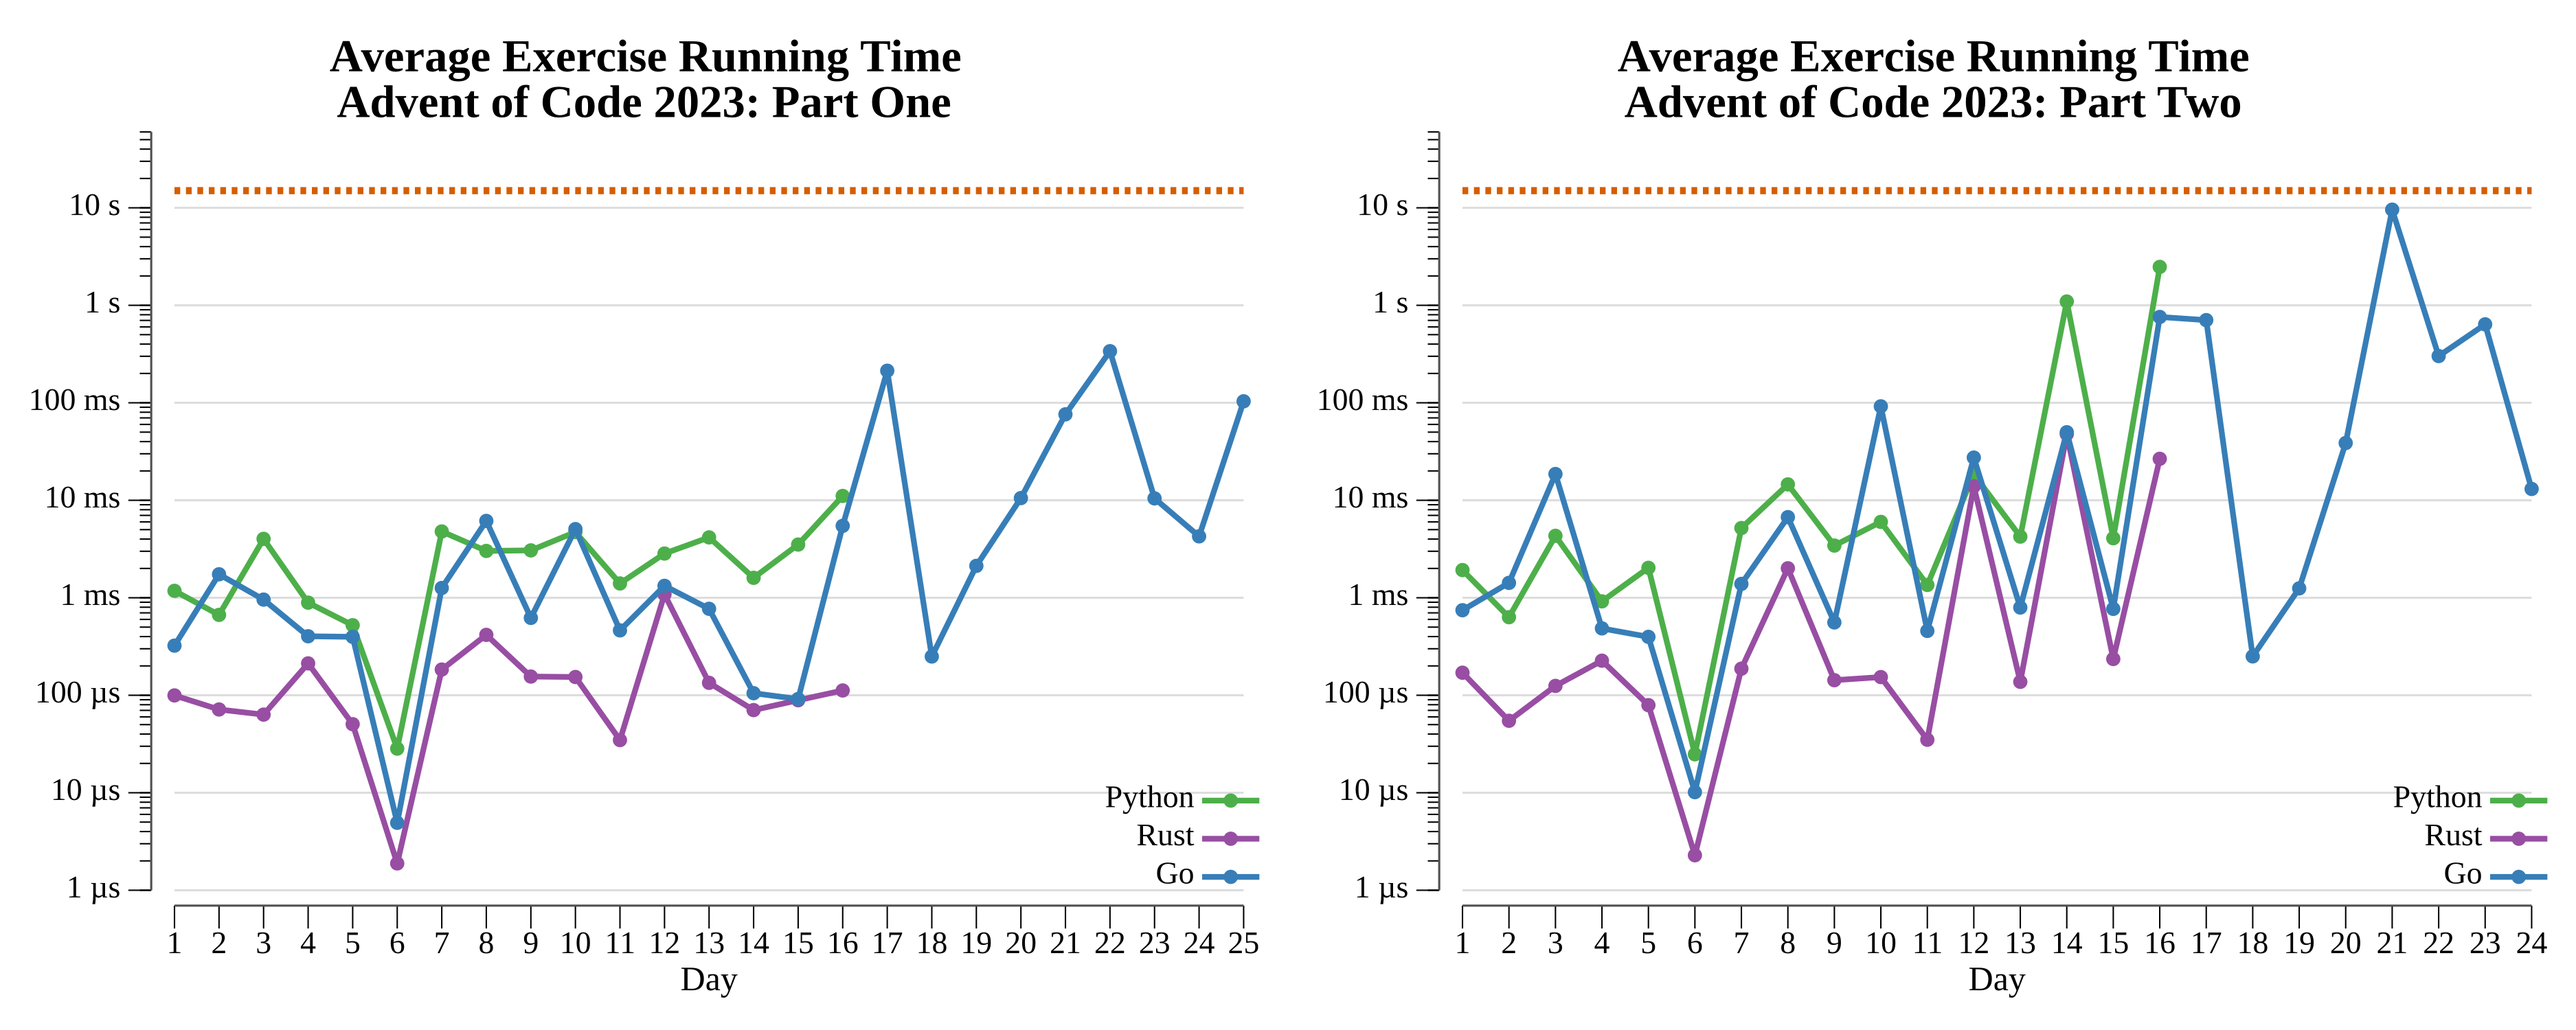
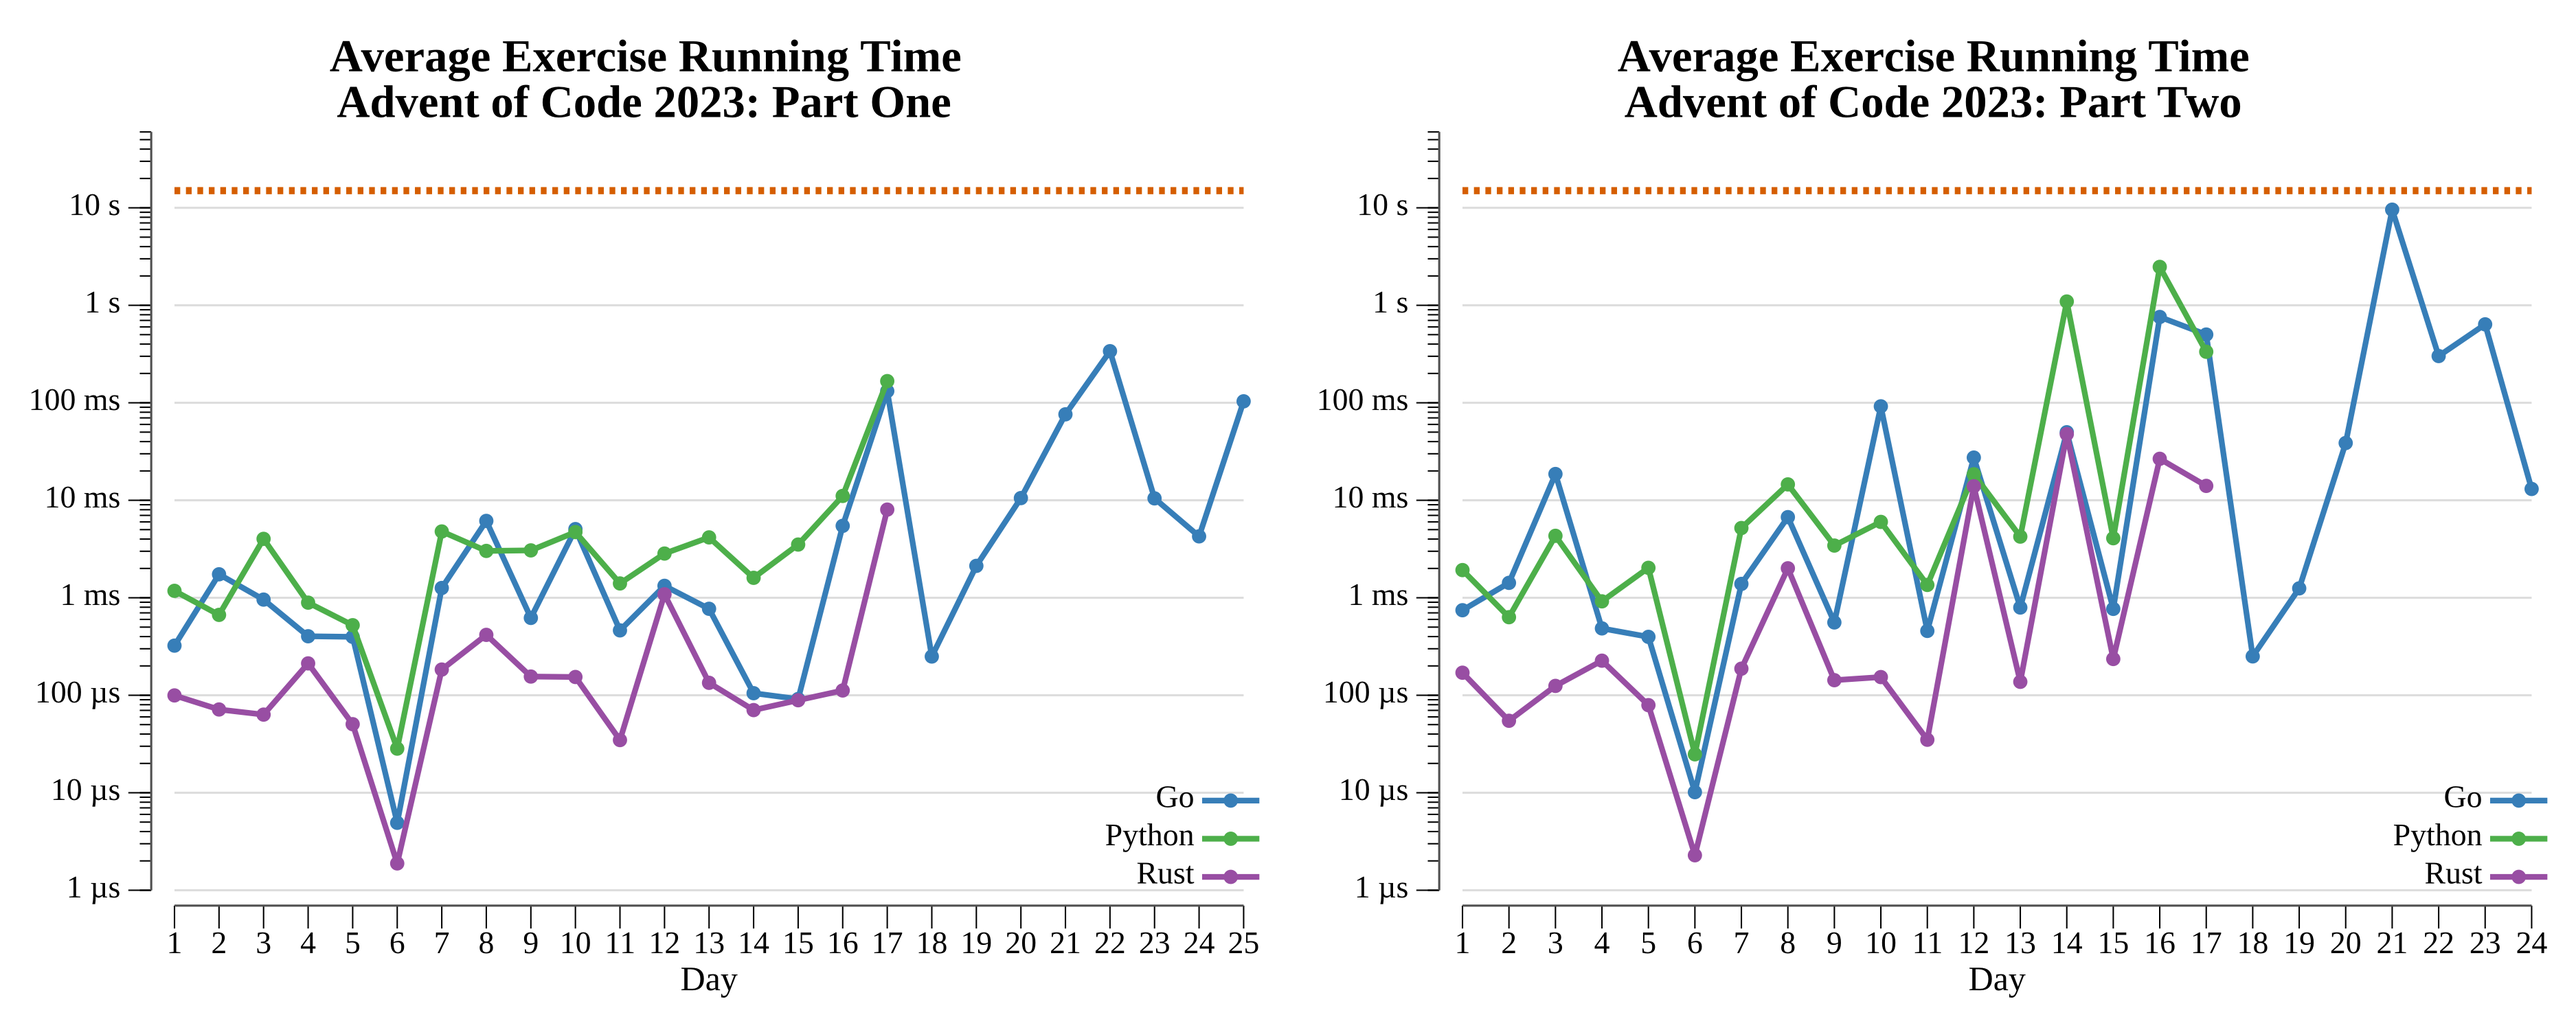
add rust/py to 2023 day 17

diff --git a/exercises/2023/17-clumsyCrucible/rs/src/solution.rs b/exercises/2023/17-clumsyCrucible/rs/src/solution.rs
@@ -1,0 +1,74 @@
+// Solution for Advent of Code 2023 day 17.
+//
+// The crucible seeks the minimum heat-loss path across the city grid, but may
+// only travel between `lo` and `hi` cells in a straight line before turning.
+// This is Dijkstra over states (row, col, axis-just-travelled): because a move
+// must turn onto the perpendicular axis, expanding every lo..hi straight step in
+// one transition captures the constraint without tracking a run length. Part one
+// uses (1, 3); part two the ultra crucible's (4, 10).
+
+use std::cmp::Reverse;
+use std::collections::BinaryHeap;
+
+const HORIZONTAL: usize = 0;
+const VERTICAL: usize = 1;
+
+fn min_heat(grid: &[Vec<u32>], lo: i32, hi: i32) -> u32 {
+    let (h, w) = (grid.len() as i32, grid[0].len() as i32);
+    let goal = (h - 1, w - 1);
+
+    // best[axis][r][c]: cheapest arrival travelling along `axis`.
+    let mut best = vec![vec![vec![u32::MAX; w as usize]; h as usize]; 2];
+    let mut heap: BinaryHeap<Reverse<(u32, i32, i32, usize)>> = BinaryHeap::new();
+    heap.push(Reverse((0, 0, 0, HORIZONTAL)));
+    heap.push(Reverse((0, 0, 0, VERTICAL)));
+
+    while let Some(Reverse((cost, r, c, axis))) = heap.pop() {
+        if (r, c) == goal {
+            return cost;
+        }
+        if cost > best[axis][r as usize][c as usize] {
+            continue;
+        }
+
+        // Turn onto the other axis, stepping lo..hi cells.
+        let (dr, dc) = if axis == VERTICAL { (0, 1) } else { (1, 0) };
+        for sign in [1, -1] {
+            let (dr, dc) = (dr * sign, dc * sign);
+            let (mut nr, mut nc, mut acc) = (r, c, cost);
+            for step in 1..=hi {
+                nr += dr;
+                nc += dc;
+                if nr < 0 || nc < 0 || nr >= h || nc >= w {
+                    break;
+                }
+                acc += grid[nr as usize][nc as usize];
+                if step < lo {
+                    continue;
+                }
+                let naxis = axis ^ 1;
+                if acc < best[naxis][nr as usize][nc as usize] {
+                    best[naxis][nr as usize][nc as usize] = acc;
+                    heap.push(Reverse((acc, nr, nc, naxis)));
+                }
+            }
+        }
+    }
+
+    u32::MAX
+}
+
+fn parse(input: &str) -> Vec<Vec<u32>> {
+    input
+        .lines()
+        .map(|l| l.bytes().map(|b| (b - b'0') as u32).collect())
+        .collect()
+}
+
+pub fn part_one(input: &str) -> String {
+    min_heat(&parse(input), 1, 3).to_string()
+}
+
+pub fn part_two(input: &str) -> String {
+    min_heat(&parse(input), 4, 10).to_string()
+}

diff --git a/exercises/2023/17-clumsyCrucible/py/__init__.py b/exercises/2023/17-clumsyCrucible/py/__init__.py
@@ -1,0 +1,58 @@
+import heapq
+from typing import *
+from aocpy import BaseExercise
+
+# Two axes of travel; from a given axis the crucible must turn onto the other.
+HORIZONTAL, VERTICAL = 0, 1
+
+
+def _min_heat(grid: list[list[int]], lo: int, hi: int) -> int:
+    height, width = len(grid), len(grid[0])
+    goal = (height - 1, width - 1)
+
+    # State = (r, c, axis just travelled). A move goes lo..hi cells along the
+    # perpendicular axis, so the turn constraint is baked into the transitions and
+    # no run-length needs tracking.
+    best: dict[tuple[int, int, int], int] = {}
+    # Seed both axes at the start so the first move can go either way.
+    pq = [(0, 0, 0, HORIZONTAL), (0, 0, 0, VERTICAL)]
+
+    while pq:
+        cost, r, c, axis = heapq.heappop(pq)
+        if (r, c) == goal:
+            return cost
+        if best.get((r, c, axis), 1 << 60) < cost:
+            continue
+
+        # Turn onto the other axis and step lo..hi cells, summing heat as we go.
+        ndir = (0, 1) if axis == VERTICAL else (1, 0)
+        for sign in (1, -1):
+            dr, dc = ndir[0] * sign, ndir[1] * sign
+            nr, nc, added = r, c, cost
+            for step in range(1, hi + 1):
+                nr, nc = nr + dr, nc + dc
+                if not (0 <= nr < height and 0 <= nc < width):
+                    break
+                added += grid[nr][nc]
+                if step < lo:
+                    continue
+                naxis = axis ^ 1
+                key = (nr, nc, naxis)
+                if added < best.get(key, 1 << 60):
+                    best[key] = added
+                    heapq.heappush(pq, (added, nr, nc, naxis))
+
+    return -1
+
+
+# Exercise for Advent of Code 2023 day 17.
+class Exercise(BaseExercise):
+    @staticmethod
+    def one(instr: str) -> int:
+        grid = [[int(ch) for ch in line] for line in instr.splitlines()]
+        return _min_heat(grid, 1, 3)
+
+    @staticmethod
+    def two(instr: str) -> int:
+        grid = [[int(ch) for ch in line] for line in instr.splitlines()]
+        return _min_heat(grid, 4, 10)

diff --git a/exercises/2023/17-clumsyCrucible/README.md b/exercises/2023/17-clumsyCrucible/README.md
@@ -38,8 +38,37 @@ Solving...
 
 ## Python
 
+Dijkstra with `heapq` over states `(row, col, axis)`. Because the crucible must
+turn onto the perpendicular axis, each transition expands every `lo..hi` straight
+step at once — so the turn/run limits are encoded without a run-length dimension.
+Parts differ only in the `(lo, hi)` bounds: `(1, 3)` and `(4, 10)`.
+
 ```text
-< section intentionally left blank >
+──────────────────────────────────────────
+           ADVENT OF CODE 2023
+         Day 17: Clumsy Crucible
+──────────────────────────────────────────
+
+Solving (Python)…
+1.0:  PASS           167.397ms
+2.0:  PASS           319.184ms
+```
+
+## Rust
+
+The same axis-state Dijkstra, using a `BinaryHeap` with `Reverse` as a min-heap
+and a flat `best[axis][r][c]` cost table. The compact state space keeps both
+crucible variants in the low tens of milliseconds.
+
+```text
+──────────────────────────────────────────
+           ADVENT OF CODE 2023
+         Day 17: Clumsy Crucible
+──────────────────────────────────────────
+
+Solving (Rust)…
+1.0:  PASS             8.296ms
+2.0:  PASS            16.146ms
 ```
 
 ## 2023 Run Times

diff --git a/exercises/2023/README.md b/exercises/2023/README.md
@@ -22,7 +22,7 @@
 | [Day 14: Parabolic Reflector Dish][rm14]      |  ⭐⭐   | [Go][go14] · [Rust][rs14] · [Python][py14] |
 | [Day 15: Lens Library][rm15]                  |  ⭐⭐   | [Go][go15] · [Rust][rs15] · [Python][py15] |
 | [Day 16: The Floor Will Be Lava][rm16]        |  ⭐⭐   | [Go][go16] · [Rust][rs16] · [Python][py16] |
-| [Day 17: Clumsy Crucible][rm17]               |  ⭐⭐   | [Go][go17] |
+| [Day 17: Clumsy Crucible][rm17]               |  ⭐⭐   | [Go][go17] · [Rust][rs17] · [Python][py17] |
 | [Day 18: Lavaduct Lagoon][rm18]               |  ⭐⭐   | [Go][go18] |
 | [Day 19: Aplenty][rm19]                       |  ⭐⭐   | [Go][go19] |
 | [Day 20: Pulse Propagation][rm20]             |  ⭐⭐   | [Go][go20] |
@@ -136,6 +136,8 @@ Day       Time   Rank  Score       Time   Rank  Score
 [py16]: 16-theFloorWillBeLava/py
 [rm17]: 17-clumsyCrucible/README.md
 [go17]: 17-clumsyCrucible/go
+[rs17]: 17-clumsyCrucible/rs
+[py17]: 17-clumsyCrucible/py
 [rm18]: 18-lavaductLagoon/README.md
 [go18]: 18-lavaductLagoon/go
 [rm19]: 19-aplenty/README.md
